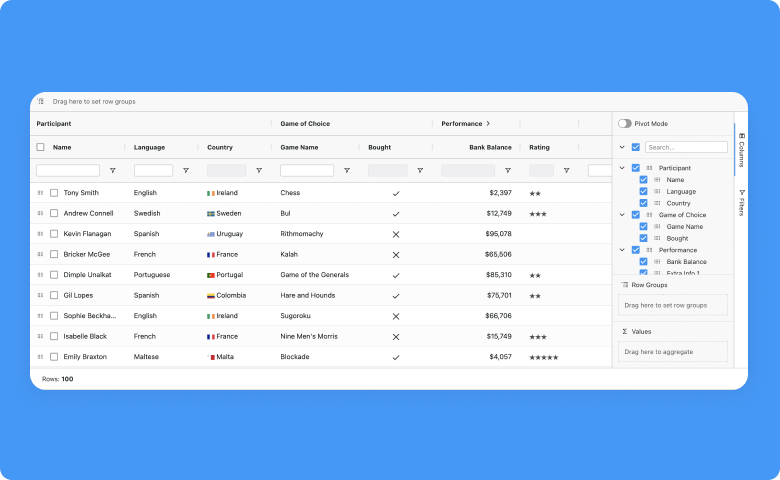
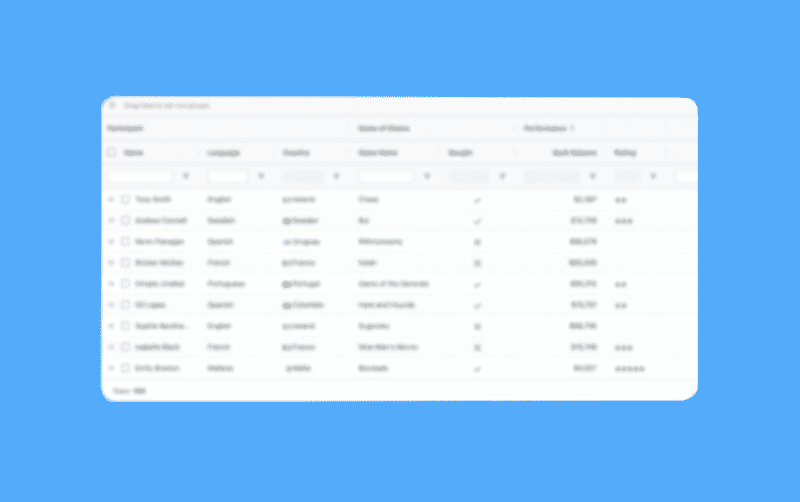
add new thumbnail

diff --git a/components/bl-data-grid-component/README.md b/components/bl-data-grid-component/README.md
@@ -3,6 +3,10 @@
 Data Grid is a component of Backendless UI-Builder designer. The main purpose of the component is to display data, and this data can be sorted and filtered.
 If you want to know more about this component, you can [follow the link.](https://www.ag-grid.com/example/)
 
+<p align="center">
+  <img src="./thumbnail.png" alt="thumbnail" width="780"/>
+</p>
+
 ## Properties
 
 | Property                             | Type                                                                                                                             | Default Value                                                                                                                                                             | Logic                   | Data Binding | UI Setting | Description                                                                                                                                                                                   |
